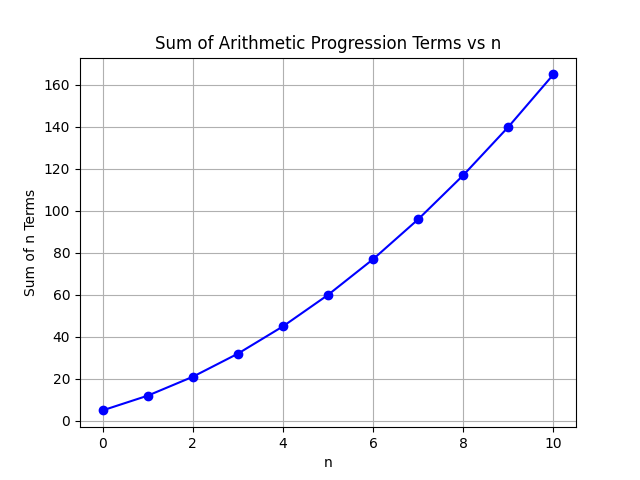
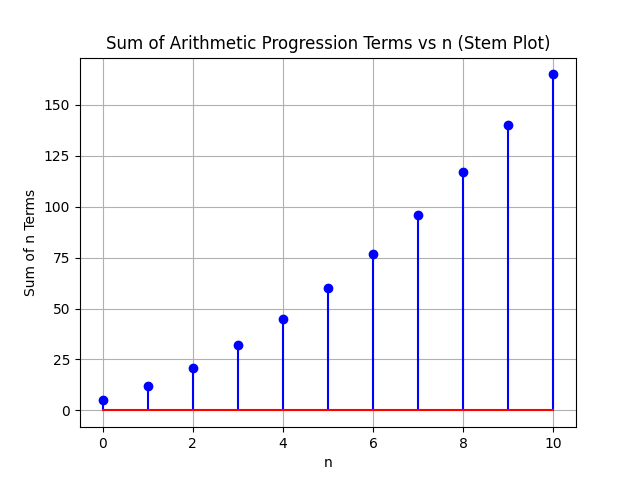
revised

diff --git a/assignment-2/a2.tex b/assignment-2/a2.tex
@@ -63,44 +63,33 @@ Prove that $\dfrac{a}{p}(q-r)+\dfrac{b}{q}(r-p)+\dfrac{c}{r}(p-q)=0$
 \section*{Solution}
 \begin{table}[h]
     \centering
-    \begin{tabular}{|p{2cm}|p{2.80cm}|p{2.70cm}|}
-    \hline
-    Symbol&Value&Description\\ \hline
-    $$x(n)$$&$$(x_0+nd)\times u(n)$$&$$n^{th}$$ term of an A.P\\ \hline
-    $$x_0$$&$$x_0$$&$1^{st}$ term of the A.P\\ \hline
-    $$d$$&$$d$$&Common difference\\ \hline
-    $$u(n)$$&unit step function&$u(n)=0$ \brak {n<0}   $u(n)=1$ \brak {n\geq0}\\ \hline
-    $$y(n)$$&$$\sum_{k=0}^{n} x \brak{k}$$&Sum of n terms of an AP\\ \hline
-    $$a$$&$$y(p-1)$$&Sum of first p terms of the AP\\ \hline
-    $$b$$&$$y(q-1)$$&Sum of first q terms of the AP\\ \hline
-    $$c$$&$$y(r-1)$$&Sum of first r terms of the AP\\ \hline
-\end{tabular}
+    \input{tables/table1.tex}
     \caption{Variable description}
     \label{tab:11.9.2.11.1}
 \end{table}
 \begin{align}
 	x \brak{n} &\system{Z} X \brak{z} \\
     X \brak{z} &= \sum_{n=-\infty}^{\infty} x \brak{n}   z^{-n}\\
-    X \brak{z} & = \sum_{n=-\infty}^{\infty}(x_0+nd)u(n)z^{-n}\\
+    X \brak{z} & = \sum_{n=-\infty}^{\infty}(x(0)+nd)u(n)z^{-n}\\
     u \brak{n} &\system{Z} U \brak{z} = \dfrac{1}{1-z^{-1}}, |z|>1\\
-    X \brak{z} & = \dfrac{x_0}{1-z^{-1}} + \dfrac{dz^{-1}}{(1-z^{-1})^{2}}\\
+    X \brak{z} & = \dfrac{x(0)}{1-z^{-1}} + \dfrac{dz^{-1}}{(1-z^{-1})^{2}}\\
     y \brak{n} &\system{Z} Y \brak{z}\\
     Y\brak{z}&=\sum_{n=-\infty}^{\infty}y(n)z^{-n}\\
     y\brak{n}&=x\brak{n}\ast u\brak{n}\\
     Y\brak{z}&=X\brak{z}U\brak{z}\\
-    Y\brak{z}&=\brak{\dfrac{x_0}{1-z^{-1}} + \dfrac{dz^{-1}}{(1-z^{-1})^{2}}}\brak{\dfrac{1}{1-z^{-1}}}
+    Y\brak{z}&=\brak{\dfrac{x(0)}{1-z^{-1}} + \dfrac{dz^{-1}}{(1-z^{-1})^{2}}}\brak{\dfrac{1}{1-z^{-1}}}
  \end{align}
  By performing Z transform on Y\brak{z} using contour integration
 \begin{align}
    y(n)&=\frac{1}{2\pi j}\oint_{C}Y(z) \;z^{n-1} \;dz  \\
-   y(n)&=\frac{1}{2\pi j}\oint_{C}\brak{\dfrac{x_0z^{n-1}}{\brak{1-z^{-1}}^2} + \dfrac{dz^{n-2}}{\brak{1-z^{-1}}^{3}}}\;dz
+   y(n)&=\frac{1}{2\pi j}\oint_{C}\brak{\dfrac{x(0)z^{n-1}}{\brak{1-z^{-1}}^2} + \dfrac{dz^{n-2}}{\brak{1-z^{-1}}^{3}}}\;dz
 \end{align}
 For $R_1$ we can observe that the pole has been repeated twice.
 \begin{align}
     R&=\frac{1}{\brak {m-1}!}\lim\limits_{z\to a}\frac{d^{m-1}}{dz^{m-1}}\brak {{(z-a)}^{m}f\brak z}  \\
-    R_1&=\frac{1}{\brak {1}!}\lim\limits_{z\to 1}\frac{d}{dz}\brak {{(z-1)}^{2}\frac{x_0z^{n+1}}{{(z-1)}^2}}\\
-    R_1&=x_0\brak{n+1}\lim\limits_{z\to 1}\brak{z^n}\\
-    R_1&=x_0\brak{n+1}
+    R_1&=\frac{1}{\brak {1}!}\lim\limits_{z\to 1}\frac{d}{dz}\brak {{(z-1)}^{2}\frac{x(0)z^{n+1}}{{(z-1)}^2}}\\
+    R_1&=x(0)\brak{n+1}\lim\limits_{z\to 1}\brak{z^n}\\
+    R_1&=x(0)\brak{n+1}
 \end{align}
 For $R_2$ we can observe that the pole has been repeated thrice.
 \begin{align}
@@ -108,23 +97,23 @@ For $R_2$ we can observe that the pole has been repeated thrice.
     R_2&=\frac{d\brak{n+1}}{2}\lim\limits_{z\to 1}\frac{d}{dz}\brak{z^n}\\
     R_2&=\frac{d\brak{n+1}\brak{n}}{2}\lim\limits_{z\to 1}\brak{z^{n-1}}\\
     R_2&=\frac{d\brak{n}\brak{n+1}}{2}\\
-    R&=x_0\brak{n+1}+\frac{d\brak{n}\brak{n+1}}{2}
+    R&=x(0)\brak{n+1}+\frac{d\brak{n}\brak{n+1}}{2}
 \end{align}
 Finally,
 \begin{align}
     y\brak{n}&=x\brak{0}\brak{n+1}u\brak{n}+d\brak{\dfrac{{n\brak{n+1}}}{2}}u\brak{n}\\
     y\brak{n}&=\dfrac{n+1}{2}\brak{2x\brak{0}+nd}u\brak{n}\\
-    a&=\dfrac{p}{2}(2x_0+(p-1)d)\\
-    b&=\dfrac{q}{2}(2x_0+(q-1)d)\\
-    c&=\dfrac{r}{2}(2x_0+(r-1)d)
+    a&=\dfrac{p}{2}(2x(0)+(p-1)d)\\
+    b&=\dfrac{q}{2}(2x(0)+(q-1)d)\\
+    c&=\dfrac{r}{2}(2x(0)+(r-1)d)
 \end{align}
-Back substituting values into the term $\dfrac{a}{p}(q-r)$ it can be rewritten as $\dfrac{p}{2} \times \dfrac{1}{p}(q-r)(2x_0+(p-1)d)$
+Back substituting values into the term $\dfrac{a}{p}(q-r)$ it can be rewritten as $\brak{\dfrac{p}{2}}\brak{\dfrac{1}{p}(q-r)(2x(0)+(p-1)d)}$
 
 On further simplification it can be rewritten as 
 \begin{align}
-    \dfrac{(q-r)}{2}(2x_0-d+pd)
+    \dfrac{(q-r)}{2}(2x(0)-d+pd)
 \end{align}
-Assuming $2x_0-d$ as a constant $k$
+Assuming $2x(0)-d$ as a constant $k$
 \begin{align}
     \dfrac{a}{p}(q-r) = \dfrac{(q-r)}{2}(k+pd)\\
     \dfrac{(q-r)}{2}(k+pd) = \dfrac{kq+pqd-kr-prd}{2}\label{eq:31}\\

diff --git a/assignment-2/codes/code1.py b/assignment-2/codes/code1.py
@@ -10,9 +10,9 @@ term_values = [int(line.split()[1]) for line in lines]
 # Calculate the sum of n terms
 sum_terms = [sum(term_values[:i+1]) for i in range(len(term_values))]
 
-# Plot the graph
-plt.plot(range(len(term_values)), sum_terms, marker='o', linestyle='-', color='b')
-plt.title('Sum of Arithmetic Progression Terms vs n')
+# Plot the stem plot
+plt.stem(range(len(term_values)), sum_terms, linefmt='b-', markerfmt='bo', basefmt='r')
+plt.title('Sum of Arithmetic Progression Terms vs n (Stem Plot)')
 plt.xlabel('n')
 plt.ylabel('Sum of n Terms')
 plt.grid(True)

diff --git a/assignment-2/tables/table1.tex b/assignment-2/tables/table1.tex
@@ -1,7 +1,7 @@
 \begin{tabular}{|p{2cm}|p{2.80cm}|p{2.70cm}|}
     \hline
     Symbol&Value&Description\\ \hline
-    $$x(n)$$&$$(x_0+nd)\times u(n)$$&$$n^{th}$$ term of an A.P\\ \hline
+    $$x(n)$$&$$(x_0+nd)u(n)$$&$$n^{th}$$ term of an A.P\\ \hline
     $$x_0$$&$$x_0$$&$1^{st}$ term of the A.P\\ \hline
     $$d$$&$$d$$&Common difference\\ \hline
     $$u(n)$$&unit step function&$u(n)=0$ \brak {n<0}   $u(n)=1$ \brak {n\geq0}\\ \hline
